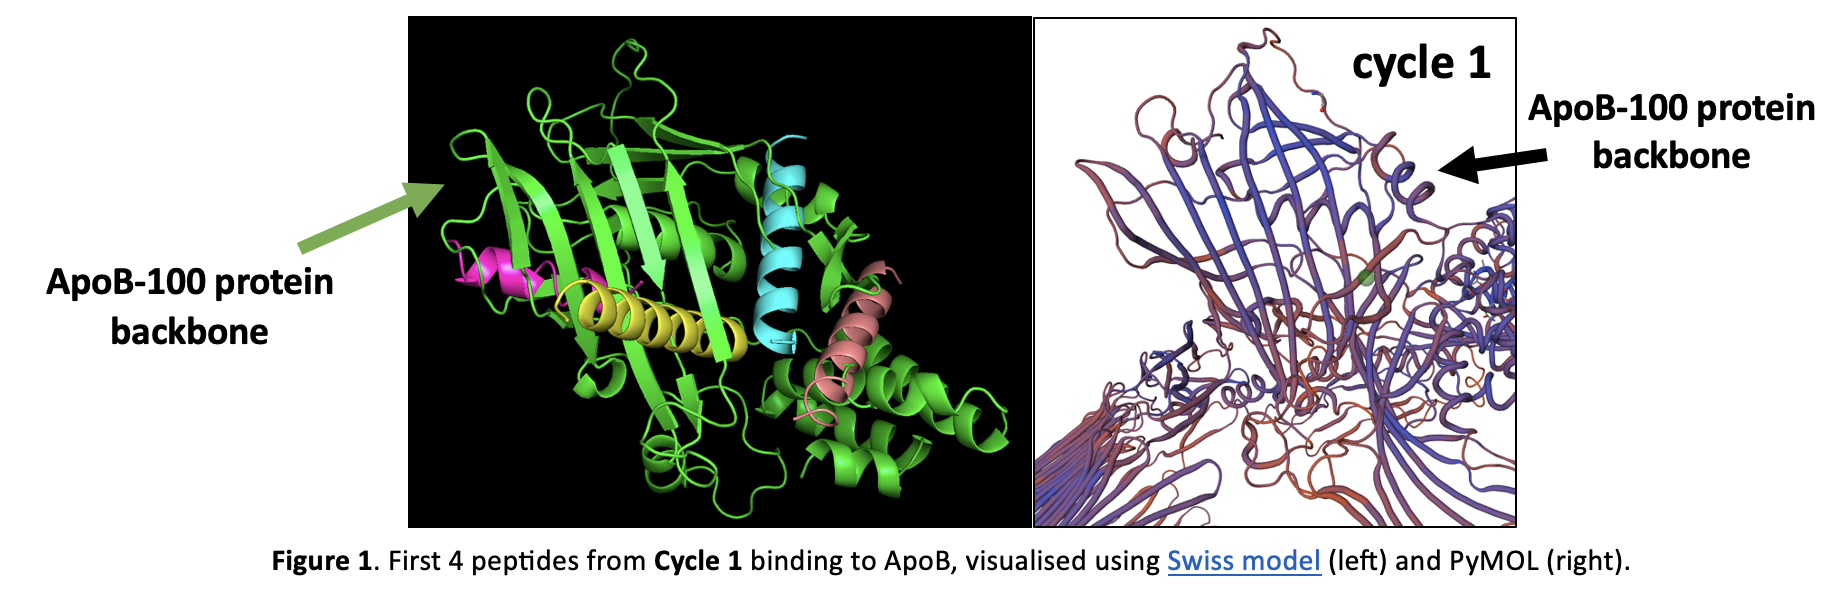
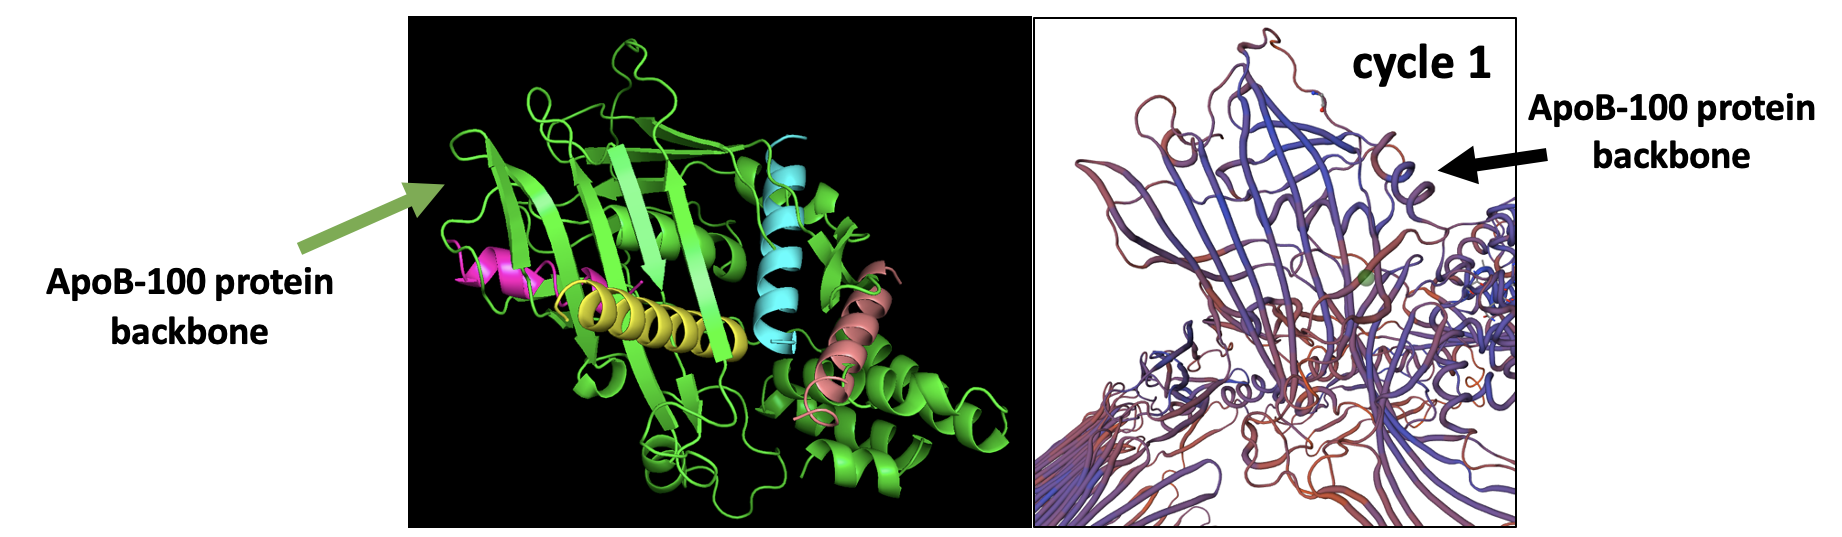
fixed readme

Changed region(s): [[0.0, 0.0298, 0.9902, 0.9832], [0.2166, 0.0, 0.557, 0.0298]]

diff --git a/README.md b/README.md
@@ -220,9 +220,9 @@ Use the command to generate a multi-PDB file consisting of more than one peptide
     Rscript "./src/conversion_all.R" $cycle $parameter`
 ```
 
-![Fig 3. Visualization](docs/Fig1_visualization.png)
+![Fig 3. Visualization](docs/Fig1_visualization.png) **Fig 5**. First 4 peptides (cycle 1A, 1B, 1C, 1D) binding to ApoB, visualized on PyMOL (left) and SWISS-MODEL (right).
 
-![Fig 4. Visualization 2](docs/Fig2_visualization.png)
+![Fig 4. Visualization 2](docs/Fig2_visualization.png)  **Fig 6**. Last 4 peptides (cycle 2A, 2B, 2C, 2D) binding to ApoB, visualized on PyMOL (left) and SWISS-MODEL (right).
 
 ## Notebook
 
